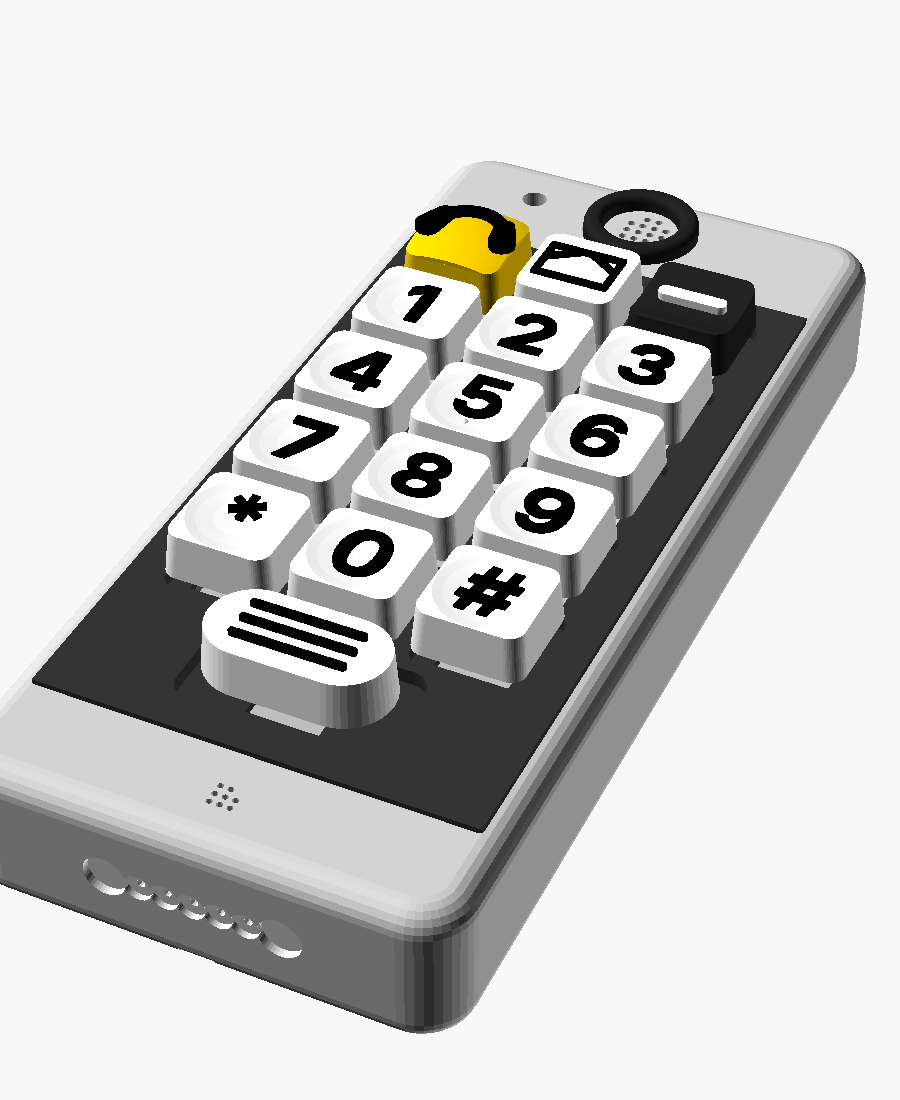
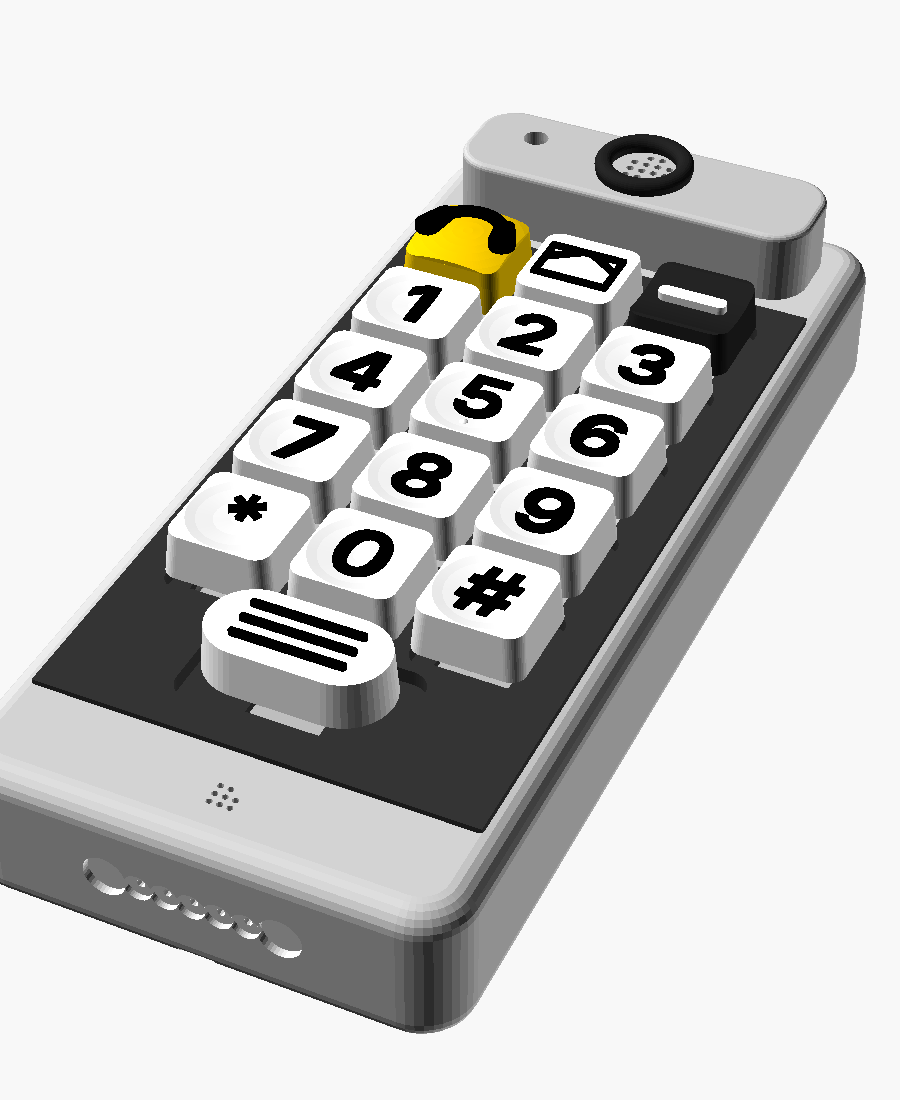
feat(cad): Hörerkopf – Ohr liegt höher als die Tasten
Neues Druckteil hoererkopf: 15 mm hohes Kopfteil über den Tasten mit
Schallrohr (zentriert in der Deckelmulde) und LED-Lichtrohr. Die
Hörmuschel (jetzt 19,6/14 mm, 3 mm) sitzt obendrauf und steht damit
deutlich über der höchsten Tastenkappe – die Wange drückt beim
Telefonieren keine Taste. Ladeschale unverändert (Kopfende steckt nicht
im Schacht).

Claude-Session: https://claude.ai/code/session_01KaaAhLLYDS61gz6faZzMxm

Changed region(s): [[0.4978, 0.0927, 0.9333, 0.2782]]

diff --git a/docs/druckteile.md b/docs/druckteile.md
@@ -28,7 +28,8 @@ ladeschale/mobil_hybrid/     Ladeschale passend zum 36-mm-Handteil
 | Datei | Stück | Farbe (Vorschlag) | Druck | Hinweise |
 |---|---|---|---|---|
 | `deckel.stl` | 1 | hellgrau/weiß | Vorderseite unten, ohne Stützen | Fenster, Hörer mit Ringmulde, LED, Mikrofon, 6 Rasthaken |
-| `hoermuschel.stl` | 1 | **dunkel, TPU 95A** (sonst PETG) | flache Seite unten | erhabener Ring um den Hörer (3,5 mm): führt das Ohr an die richtige Stelle und dichtet ab. In die Ringmulde des Deckels kleben (TPU: Sekundenkleber mit Primer oder Kontaktkleber) |
+| `hoererkopf.stl` | 1 | wie Deckel | Oberseite unten, ohne Stützen | erhöhtes Kopfteil über den Tasten (15 mm): Ohr und Muschel liegen **höher als die Tastenkappen**, die Wange drückt beim Telefonieren keine Taste. Enthält Schallrohr und LED-Lichtrohr; wird auf den Deckel geklebt |
+| `hoermuschel.stl` | 1 | **dunkel, TPU 95A** (sonst PETG) | flache Seite unten | weicher Ring (3 mm) oben auf dem Hörerkopf: führt das Ohr an die richtige Stelle und dichtet ab |
 | `wanne.stl` | 1 | hellgrau/weiß | Rückseite unten, ohne Stützen | Notrufmulde (Brücke über 21 mm), Akkufach, Ladekontakte |
 | `tastenplatte.stl` | 1 | **schwarz** | Platte unten | dunkle Platte = Kontrast zu den weißen Kappen; **1,5 mm** an den Ausschnitten nicht verändern (Cherry-MX-Klemmmaß) |
 | `akkudeckel.stl` | 1 | wie Wanne | Außenseite unten | 2 Senkschrauben |
@@ -91,7 +92,10 @@ Elektronik siehe [festnetz-hardware.md](festnetz-hardware.md) bzw.
    Deckelfenster schieben, bis die 6 Rasthaken einrasten. Die Taststege schauen
    0,8 mm aus dem Fenster. Kappen erst ganz am Schluss aufstecken.
 3. Hörkapsel, Mikrofon (mit Dichtring/Filz) und LED in die Halter im Deckel kleben.
-   Hörmuschel außen in die Ringmulde über dem Hörer kleben.
+   LED von unten ins Lichtrohr des Hörerkopfs stecken (Kopf schaut oben heraus,
+   Beine verlängern), Drähte durch das LED-Loch im Deckel. Hörerkopf mit 2K-Kleber
+   auf den Deckel kleben; der Stummel des Schallrohrs zentriert ihn in der
+   Ringmulde über dem Hörer. Hörmuschel oben in die Mulde des Kopfs kleben.
    Mobil/Hybrid: GNSS-Antenne in den Rahmen oben rechts.
 4. **Wanne:** Notruftaster von außen in die Mulde klipsen, Notrufkappe aufstecken.
    Reedkontakt in den Kanal neben der Mulde schieben, Magnet in die Klappe kleben,

diff --git a/CLAUDE.md b/CLAUDE.md
@@ -39,7 +39,7 @@ Status: Software im Simulator getestet, Hardware ungetestet.
 | `tests/test_festnetz.py` | SIP-Backend gegen FakeBaresip, Fritz!Box, Ladeschale |
 | `tests/test_hybrid.py` | Hybrid-Routing, Notruf, Zweitanruf, Sparmodus |
 | `cad/omafon_masse.scad` | Gemeinsame Maße Handteil/Ladeschale je `variante` (festnetz 30 mm, mobil/hybrid 36 mm dick) |
-| `cad/omafon_gehaeuse.scad` | Handteil-Gehäuse: deckel, wanne, tastenplatte, akkudeckel, notrufklappe, lautstaerke_*; STL in Druckrichtung |
+| `cad/omafon_gehaeuse.scad` | Handteil-Gehäuse: deckel, wanne, tastenplatte, akkudeckel, notrufklappe, lautstaerke_*, hoererkopf, hoermuschel; STL in Druckrichtung |
 | `cad/omafon_ladeschale.scad` | Ladeschale mit Lautsprecher, Federkontakten, Kodierrippe |
 | `docs/druckteile.md` | Teileliste, Druckeinstellungen, Kaufteile, Zusammenbau (liegt auch im STL-Paket) |
 | `config.festnetz.example.yaml` | Beispielkonfiguration Festnetz (nur Platzhalter) |
@@ -85,6 +85,9 @@ Im Simulator: Tasten `0-9 * #`, `a` Anrufen, `h` Auflegen, `m` Nachricht, `i` In
    **Maße von Handteil und Ladeschale nur in `cad/omafon_masse.scad`** ändern, sonst
    passt das Telefon nicht mehr in die Schale. CAD-Teile müssen ohne OpenSCAD-Warnung
    rendern (CI bricht sonst ab), STL-Ausgabe immer in Druckrichtung ohne Stützen.
+   **Ohr vor Tasten:** Hörerkopf + Muschel müssen höher stehen als jede Tastenkappe,
+   und im Gespräch legt die Auflegetaste nur gehalten auf (`hangup_hold_s`) – sonst
+   legt die Wange auf.
 7. **Phone spricht nur über `TelephonyBackend`.** Neue Netzfunktionen als Methode/
    Ereignis im Backend, nie Backend-Sonderfälle in `phone.py`. Optionale Fähigkeiten
    (`supports_sms`, `online`, `status_words`) haben sichere Standardwerte.
